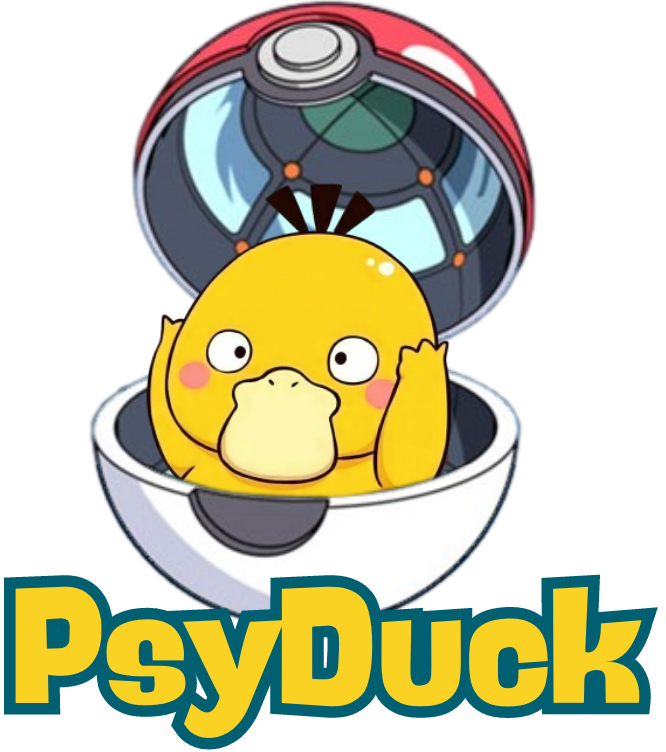
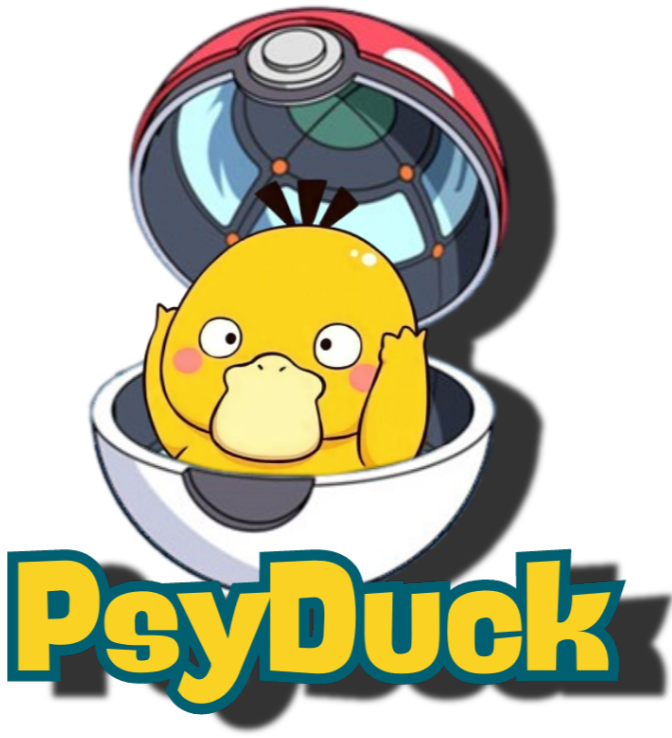
Update code

diff --git a/index.html b/index.html
@@ -273,11 +273,14 @@
 <div id="root">
     <div class="navBarContainer">
         <div class="navBarWrapper">
-            <nav class="navBar"><a href="/">
-                <div class="logoContainer">
-                    <div class="logoWraper"><img src="./assets/images/psy-logo.png" alt=""><span class="logoTextContainer"> <span>Psy</span> <span>Duck</span> </span></div>
-                </div>
-            </a>
+            <nav class="navBar">
+                <a href="/">
+                    <div class="logoContainer">
+                        <div class="logoWraper">
+                            <img src="./assets/images/psy-duck-logo.png" alt="">
+                        </div>
+                    </div>
+                </a>
                 <div class="navbar__body">
                     <div class="linksContainer">
                         <a href="#about"> About </a>
@@ -317,44 +320,42 @@
         </div>
     </div>
     <div class="metricsSection__container" id="roadmap">
-        <h1 style="text-shadow: rgba(0, 0, 0, 0.6) 4px 4px 8px; color: white; font-size: 3rem; text-align: center; margin-top: 20px; margin-bottom: 20px;">Road Map 2023</h1>
+<!--        <h1 style="text-shadow: rgba(0, 0, 0, 0.6) 4px 4px 8px; color: white; font-size: 3rem; text-align: center; margin-top: 20px; margin-bottom: 20px;">Road Map 2023</h1>-->
+        <div style="display: flex; justify-content: center">
+            <img src="./assets/images/roadmap-header.png" alt="">
+        </div>
         <div class="vertical-timeline vertical-timeline--animate vertical-timeline--two-columns">
             <div id="" class="vertical-timeline-element--work vertical-timeline-element"><span class="vertical-timeline-element-icon bounce-in" style="background: rgb(33, 150, 243); color: rgb(255, 255, 255);"></span>
                 <div class="vertical-timeline-element-content bounce-in" style="background: rgb(33, 150, 243); color: rgb(255, 255, 255); box-shadow: rgba(0, 0, 0, 0.84) -8px 4px 27px -1px;">
                     <div class="vertical-timeline-element-content-arrow" style="border-right: 7px solid rgb(33, 150, 243);"></div>
-                    <p style="font-size: 12px;"> - Community building</p>
-                    <p style="font-size: 12px;"> - Expand Team</p>
-                    <p style="font-size: 12px;"> - Global Marketing Campaign</p>
-                    <p style="font-size: 12px;"> - Fair Launch on Shibarium</p>
+                    <p style="font-size: 14px;"> - Community building</p>
+                    <p style="font-size: 14px;"> - Expand Team</p>
+                    <p style="font-size: 14px;"> - Global Marketing Campaign</p>
+                    <p style="font-size: 14px;"> - Fair Launch on Shibarium</p>
                     <span class="vertical-timeline-element-date"><span
                         style="text-shadow: rgba(0, 0, 0, 0.75) -2px 2px 3px;">Phase 1</span></span></div>
             </div>
             <div id="" class="vertical-timeline-element--work vertical-timeline-element"><span class="vertical-timeline-element-icon bounce-in" style="background: rgb(90, 80, 145); color: rgb(255, 255, 255);"></span>
                 <div class="vertical-timeline-element-content bounce-in" style="background: rgb(90, 80, 145); color: rgb(255, 255, 255); box-shadow: rgba(0, 0, 0, 0.84) -8px 4px 27px -1px;">
                     <div class="vertical-timeline-element-content-arrow" style="border-right: 7px solid rgb(90, 80, 145);"></div>
-                    <p style="font-size: 12px;"> - Certick Audit</p>
-                    <p style="font-size: 12px;"> - CMG & CG Listing </p>
-                    <p style="font-size: 12px;"> - Viral Marketing Phase 2 </p>
-                    <p style="font-size: 12px;"> - Avedex and Dexview Trending </p>
-                    <p style="font-size: 12px;"> - 1000+ Holders </p>
+                    <p style="font-size: 14px;"> - Certick Audit</p>
+                    <p style="font-size: 14px;"> - CMG & CG Listing </p>
+                    <p style="font-size: 14px;"> - Viral Marketing Phase 2 </p>
+                    <p style="font-size: 14px;"> - Avedex and Dexview Trending </p>
+                    <p style="font-size: 14px;"> - 1000+ Holders </p>
                     <span class="vertical-timeline-element-date">
                     <span style="text-shadow: rgba(0, 0, 0, 0.75) -2px 2px 3px;">Phase 2</span></span></div>
             </div>
             <div id="" class="vertical-timeline-element--work vertical-timeline-element"><span class="vertical-timeline-element-icon bounce-in" style="background: rgb(44, 43, 48); color: rgb(255, 255, 255);"></span>
                 <div class="vertical-timeline-element-content bounce-in" style="background: rgb(44, 43, 48); color: rgb(255, 255, 255); box-shadow: rgba(0, 0, 0, 0.84) -8px 4px 27px -1px;">
                     <div class="vertical-timeline-element-content-arrow" style="border-right: 7px solid rgb(44, 43, 48);"></div>
-                    <p style="font-size: 12px;"> - Major CEX Listings </p>
-                    <p style="font-size: 12px;"> - 10000+ Holders</p>
-                    <p style="font-size: 12px;"> - Enable Staking and Farming</p>
-                    <p style="font-size: 12px;"> - Viral Marketing Phase 3</p>
-                    <p style="font-size: 12px;"> - Expandsion to Additional Blockchains</p>
-                    <p style="font-size: 12px;"> - Partnership announcements</p>
+                    <p style="font-size: 14px;"> - Major CEX Listings </p>
+                    <p style="font-size: 14px;"> - 10000+ Holders</p>
+                    <p style="font-size: 14px;"> - Enable Staking and Farming</p>
+                    <p style="font-size: 14px;"> - Viral Marketing Phase 3</p>
+                    <p style="font-size: 14px;"> - Expandsion to Additional Blockchains</p>
+                    <p style="font-size: 14px;"> - Partnership announcements</p>
                     <span class="vertical-timeline-element-date"><span style="text-shadow: rgba(0, 0, 0, 0.75) -2px 2px 3px;">Phase 3</span></span></div>
-            </div>
-            <div id="" class="vertical-timeline-element vertical-timeline-element--no-children"><span class="vertical-timeline-element-icon bounce-in" style="background: rgb(16, 204, 82); color: rgb(255, 255, 255);"></span>
-                <div class="vertical-timeline-element-content bounce-in">
-                    <div class="vertical-timeline-element-content-arrow"></div>
-                    <span class="vertical-timeline-element-date"></span></div>
             </div>
         </div>
     </div>

diff --git a/assets/css/main.6ecd601b.chunk.css b/assets/css/main.6ecd601b.chunk.css
@@ -835,7 +835,7 @@ body {
 }
 
 .logoContainer img {
-    max-width: 65px
+    max-width: 165px
 }
 
 .linksContainer {
